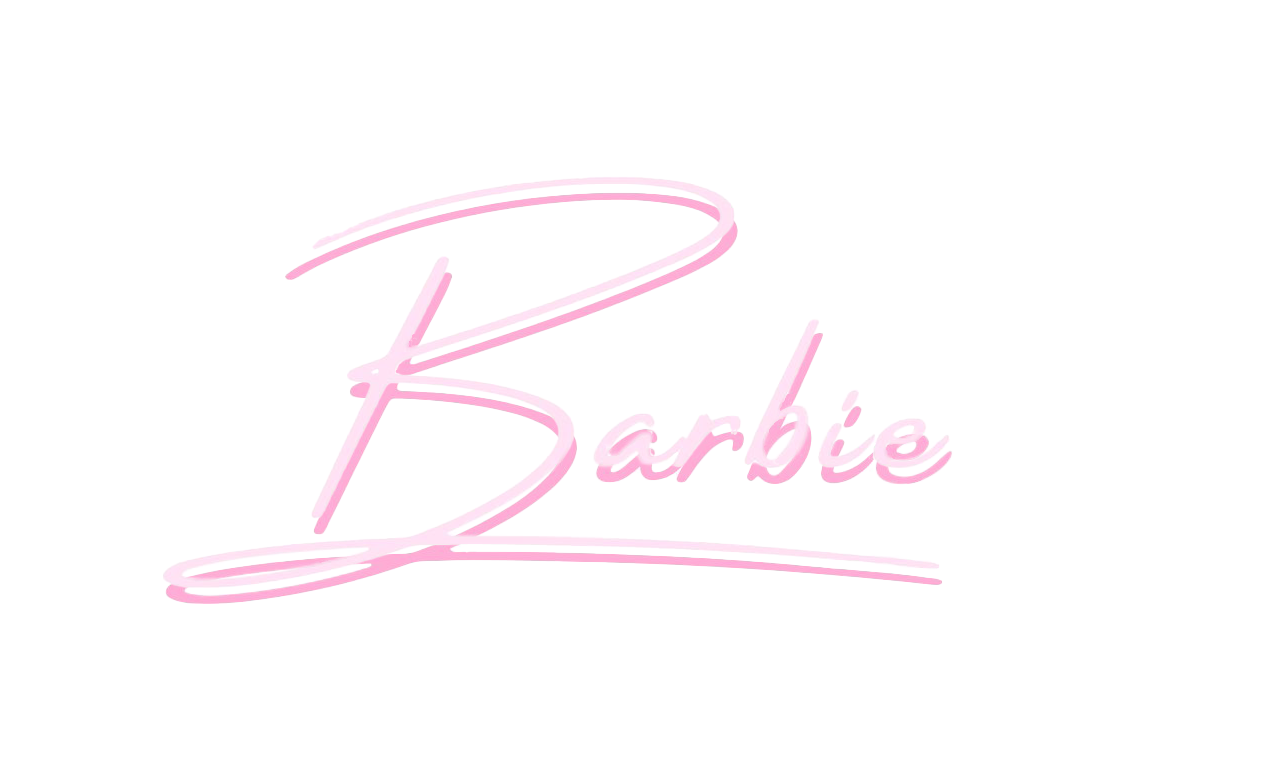
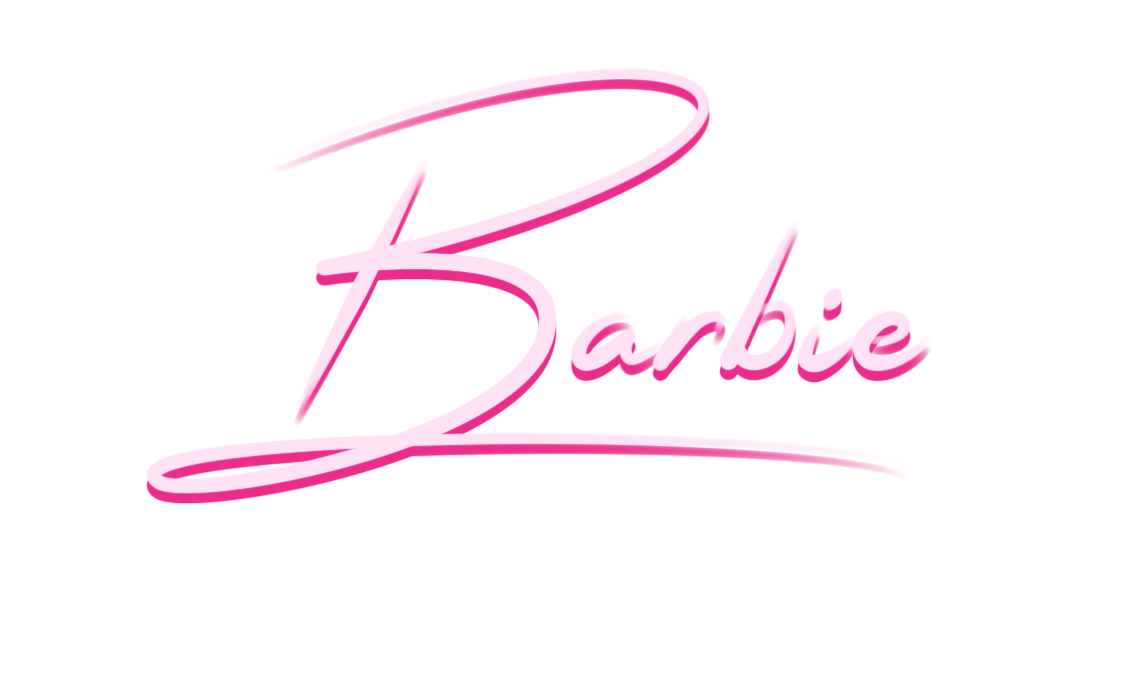
a bit more

Changed region(s): [[0.1232, 0.0932, 0.8319, 0.7766], [0.2157, 0.3417, 0.2465, 0.3728]]

diff --git a/barbie/index.html b/barbie/index.html
@@ -70,6 +70,11 @@
 			background-color: #ff69b4;
 		}
 
+		.image-container {
+		    display: flex;
+		    justify-content: space-between; /* This will evenly space the images */
+		}
+
 		.hi_barbie
 		{
 			width: auto;
@@ -479,10 +484,11 @@
 
     <div class="container" id="home">
         <!-- Home content goes here -->
-		<img class="d-block hi_barbie" src="./img/margot_robie_no_back.png"  alt="Margot">
-		<img class="d-block hi_barbie" src="./img/text_home.png"  alt="Margot">
-		<img class="d-block hi_barbie" src="./img/margot_robie_no_back.png"  alt="Margot">
-
+		<div class="image-container">
+			<img class="d-block hi_barbie" src="./img/barbie_home_shape.png" alt="Margot">
+			<img class="d-block hi_barbie" src="./img/text_home.png" alt="Margot">
+			<img class="d-block hi_barbie" src="./img/margot_robie_no_back.png" alt="Margot">
+		</div>
     </div>
 
     <div class="container cast" id="cast">
